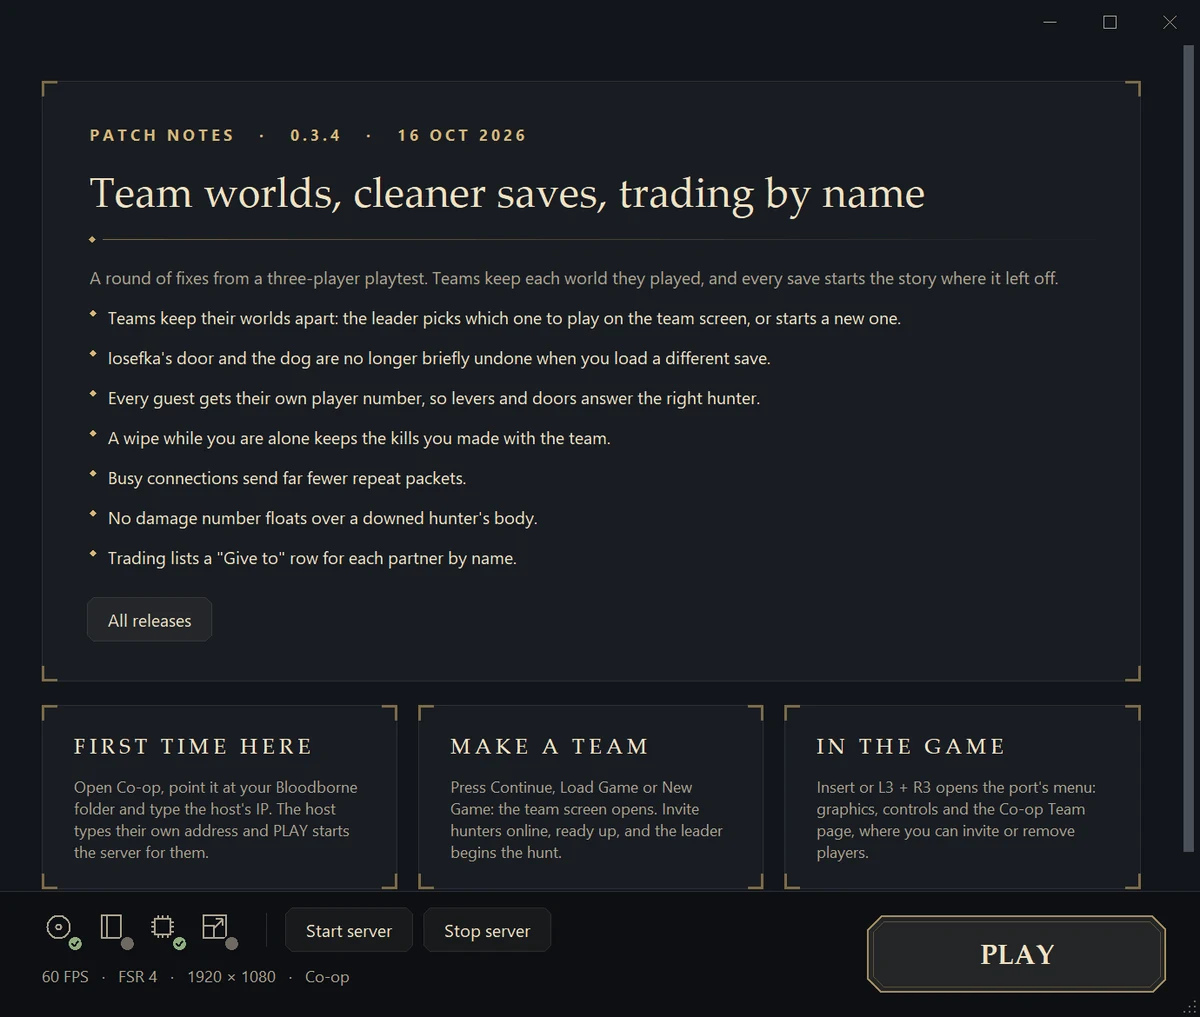
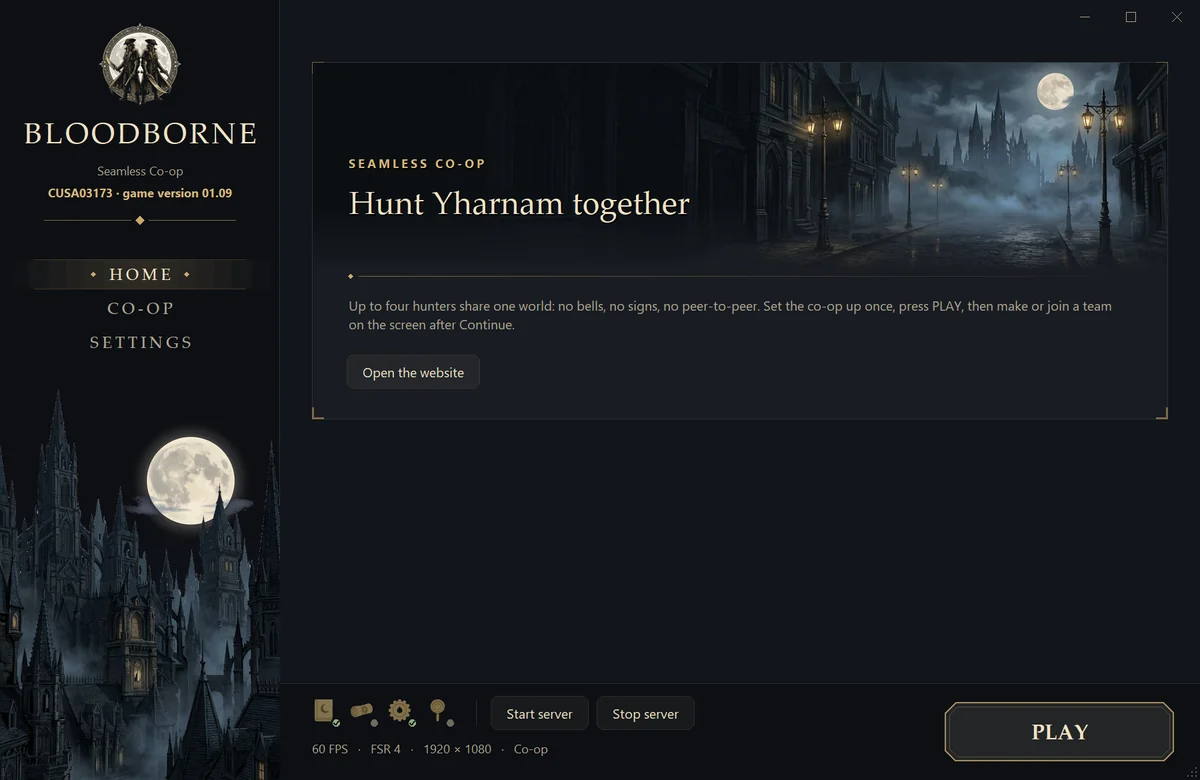
website: retaken screenshots with the new co-op art; Insert menu instead of the System menu
Team screen, loading screen, Insert menu and its Co-op Team page, and every
launcher page, retaken on main b377db3f (portraits) and bf72fe0e (launcher
icons). The home hero now shows The Hunt Begins.

Claude-Session: https://claude.ai/code/session_01NSpxeaNqMVRju62Yr6wP8m

diff --git a/website/src/content/docs.ts b/website/src/content/docs.ts
@@ -71,7 +71,7 @@ const install: DocPage = {
           type: "ol",
           items: [
             `Download the setup \`.exe\` from the [download page](/download) or [GitHub releases](${RELEASES_URL}) and run it. It installs for your Windows user and adds a desktop shortcut.`,
-            "Open **Bloodborne Seamless Co-op**. The launcher opens on **Home**, with the latest patch notes and three short reminders.",
+            "Open **Bloodborne Seamless Co-op**. The launcher opens on **Home**, with the latest news.",
             "Go to **Co-op** in the sidebar and fill it in (below). **Done** lights up once nothing is missing. Then press **PLAY**.",
           ],
         },
@@ -79,9 +79,9 @@ const install: DocPage = {
           type: "image",
           src: "/docs/launcher-home.webp",
           width: 1200,
-          height: 1017,
-          alt: "The launcher's Home page: patch notes for the latest release, three cards First time here, Make a team and In the game, and the bottom bar with Start server, Stop server and PLAY.",
-          caption: "Home: the patch notes, three reminders and the PLAY bar.",
+          height: 780,
+          alt: "The launcher's Home page: the news card Hunt Yharnam together, the sidebar with Home, Co-op and Settings, and the bottom bar with the status icons, Start server, Stop server and PLAY.",
+          caption: "Home: the news, the sidebar and the PLAY bar.",
         },
       ],
     },
@@ -97,7 +97,7 @@ const install: DocPage = {
           type: "image",
           src: "/docs/launcher-coop.webp",
           width: 1200,
-          height: 690,
+          height: 696,
           alt: "The Co-op page filled in: the Bloodborne folder with a green check for version 01.09, the host's IP 10.0.0.2, Enemies Off, the Bring saves button and Done.",
           caption: "Filled in: the folder is found, the host's IP is set and Enemies is Off.",
         },
@@ -130,9 +130,10 @@ const install: DocPage = {
           type: "image",
           src: "/docs/launcher-coop-empty.webp",
           width: 1200,
-          height: 690,
-          alt: "The Co-op page on first start, with the host's IP and Enemies empty, Done greyed out and the line Still needed: the host's IP, the enemies.",
-          caption: "On first start, Done waits until the host's IP and the enemies are set.",
+          height: 696,
+          alt: "The Co-op page on first start: the folder, the host's IP and Enemies empty, Done greyed out and the line Still needed: the game folder, the host's IP, the enemies.",
+          caption:
+            "On first start, Done waits until the folder, the host's IP and the enemies are set.",
         },
         {
           type: "p",
@@ -157,9 +158,17 @@ const install: DocPage = {
           type: "image",
           src: "/docs/launcher-bar.webp",
           width: 1200,
-          height: 126,
-          alt: "The launcher's bottom bar: status icons, Start server, Stop server, Running, the line Started the co-op server, and PLAY.",
-          caption: "The bottom bar on the host, with the server running.",
+          height: 97,
+          alt: "The launcher's bottom bar: four status icons, Start server, Stop server and PLAY, with the frame rate, upscaler and resolution under the icons.",
+          caption: "The bottom bar.",
+        },
+        {
+          type: "image",
+          src: "/docs/launcher-server-running.webp",
+          width: 1200,
+          height: 97,
+          alt: "The same bottom bar on the host with the server shown as Running.",
+          caption: "On the host, with the server running.",
         },
         {
           type: "terms",
@@ -217,7 +226,7 @@ const install: DocPage = {
           type: "image",
           src: "/docs/launcher-settings.webp",
           width: 1200,
-          height: 1017,
+          height: 780,
           alt: "Settings, General: Output 1920 by 1080, Frame rate 60 FPS, Upscaler FSR 4, Preset Quality, Game and launcher language, Windowed, Frame generation, and Saves and shortcuts.",
           caption: "Settings, General.",
         },
@@ -267,15 +276,15 @@ const play: DocPage = {
       blocks: [
         {
           type: "p",
-          text: "**Continue**, **Load Game** or **New Game** on the title screen opens the team screen, The Hunt Together. You can also open it in the game from **System**, **Co-op Team**.",
+          text: "**Continue**, **Load Game** or **New Game** on the title screen opens the team screen, The Hunt Together. In the game, press **Insert** (or **L3 + R3**) and choose **Co-op Team**.",
         },
         {
           type: "image",
           src: "/docs/team-host.webp",
           alt: "The Hunt Together team screen: four places, Player 1 as leader choosing a character, Player 2 ready, two empty places, the Hunters online and Invitations lists, and the buttons Leave the team, Begin the hunt and Play alone.",
           caption: "The leader's view. Each place shows a hunter and where they are.",
-          width: 1200,
-          height: 771,
+          width: 1440,
+          height: 810,
         },
         {
           type: "terms",
@@ -300,12 +309,28 @@ const play: DocPage = {
           src: "/docs/team-guest.webp",
           alt: "The same team screen seen by Player 2, with the Ready button instead of Begin the hunt.",
           caption: "A member's view: Ready instead of Begin the hunt.",
-          width: 1200,
-          height: 771,
+          width: 1440,
+          height: 810,
         },
         {
           type: "p",
           text: "After **Begin the hunt** every game loads its own save. The loading screen, The Hunt Begins, lists each hunter as Loading, Joining the hunt or Ready, and opens for everyone at once. You arrive where your character stood. Starting the game again after a crash puts you back in the team.",
+        },
+        {
+          type: "image",
+          src: "/docs/loading.webp",
+          alt: "The Hunt Begins loading screen over a night city under the moon, with cards for Player 1 and Player 2, both Joining the hunt at about 80 percent.",
+          caption: "The Hunt Begins: everyone loads, then the hunt opens at once.",
+          width: 1440,
+          height: 810,
+        },
+        {
+          type: "image",
+          src: "/docs/insert-team.webp",
+          alt: "The Co-op Team page opened from the Insert menu during play: Player 1 and Player 2 In the hunt, two empty places, Hunters online and Invitations.",
+          caption: "Co-op Team from the Insert menu, while you play.",
+          width: 1440,
+          height: 810,
         },
       ],
     },
@@ -414,11 +439,11 @@ const play: DocPage = {
         },
         {
           type: "image",
-          src: "/docs/system-menu.webp",
-          alt: "The game's System menu with Controls, Environment, Co-op Team, Display and Screen.",
-          caption: "Co-op Team in the game's System menu.",
-          width: 960,
-          height: 720,
+          src: "/docs/insert-menu.webp",
+          alt: "The Insert settings menu over the game, on the Display tab, with Co-op Team selected above Quit to desktop.",
+          caption: "The Insert menu, with Co-op Team at the bottom.",
+          width: 1220,
+          height: 830,
         },
       ],
     },

diff --git a/website/src/app/page.tsx b/website/src/app/page.tsx
@@ -42,7 +42,7 @@ const showcases = [
     href: "/docs/install#graphics",
     src: "/docs/launcher-settings.webp",
     width: 1200,
-    height: 1017,
+    height: 780,
     alt: "The launcher's settings: resolution, frame rate and upscaler.",
   },
   {
@@ -51,7 +51,7 @@ const showcases = [
     href: "/docs/install#coop-card",
     src: "/docs/launcher-coop.webp",
     width: 1200,
-    height: 690,
+    height: 696,
     alt: "The launcher's Co-op page with the game folder and the host's address filled in.",
   },
 ];
@@ -97,14 +97,14 @@ const features: {
     alt: "A guest receives four Blood Vials from the host in the game's own item dialog.",
   },
   {
-    title: "Teams from the System menu",
+    title: "Your team, any time",
     icon: "bell",
-    text: "Co-op Team sits in the game's own System menu. Open it any time to see who is online, invite them or leave.",
+    text: "Press Insert, or L3 + R3 on a pad, and choose Co-op Team. It shows your team, who is online and who invited you, without leaving the game.",
     href: "/docs/play#team",
-    src: "/docs/system-menu.webp",
-    width: 960,
-    height: 720,
-    alt: "The game's System menu with Co-op Team between Environment and Display.",
+    src: "/docs/insert-team.webp",
+    width: 1440,
+    height: 810,
+    alt: "The Co-op Team page from the Insert menu: Player 1 and Player 2 In the hunt, two empty places, Hunters online and Invitations.",
   },
   {
     title: "Ready, then the hunt",
@@ -112,8 +112,8 @@ const features: {
     text: "Members press Ready on the team screen. The leader begins the hunt and everyone loads into the same world.",
     href: "/docs/play#team",
     src: "/docs/team-guest.webp",
-    width: 1200,
-    height: 771,
+    width: 1440,
+    height: 810,
     alt: "The team screen seen by Player 2, with Ready instead of Begin the hunt.",
   },
 ];
@@ -125,7 +125,7 @@ const steps: StartStep[] = [
     href: "/docs/install#install",
     src: "/docs/launcher-home.webp",
     width: 1200,
-    height: 1017,
+    height: 780,
     alt: "The launcher's Home page after the first start.",
   },
   {
@@ -134,7 +134,7 @@ const steps: StartStep[] = [
     href: "/docs/install#coop-card",
     src: "/docs/launcher-coop.webp",
     width: 1200,
-    height: 690,
+    height: 696,
     alt: "The Co-op page with the game folder and the host's address.",
   },
   {
@@ -142,8 +142,8 @@ const steps: StartStep[] = [
     text: "Press PLAY, invite each other on the team screen and begin the hunt.",
     href: "/docs/play#team",
     src: "/docs/team-host.webp",
-    width: 1200,
-    height: 771,
+    width: 1440,
+    height: 810,
     alt: "The team screen with two hunters, before loading in.",
   },
 ];
@@ -180,16 +180,16 @@ export default function Home() {
         </div>
         <figure>
           <Image
-            src="/docs/team-host.webp"
-            alt="The Hunt Together team screen with two hunters and two empty places."
-            width={1200}
-            height={771}
+            src="/docs/loading.webp"
+            alt="The Hunt Begins loading screen: cards for Player 1 and Player 2 over a night city under the moon."
+            width={1440}
+            height={810}
             priority
             sizes="(min-width: 1024px) 640px, 100vw"
             className="h-auto w-full border-y border-silver/30 shadow-[0_30px_80px_rgb(0_0_0/0.7)]"
           />
           <figcaption className="mt-3 text-base text-muted-foreground italic">
-            The team screen, before loading in.
+            The Hunt Begins: the team loads into one world.
           </figcaption>
         </figure>
       </section>
